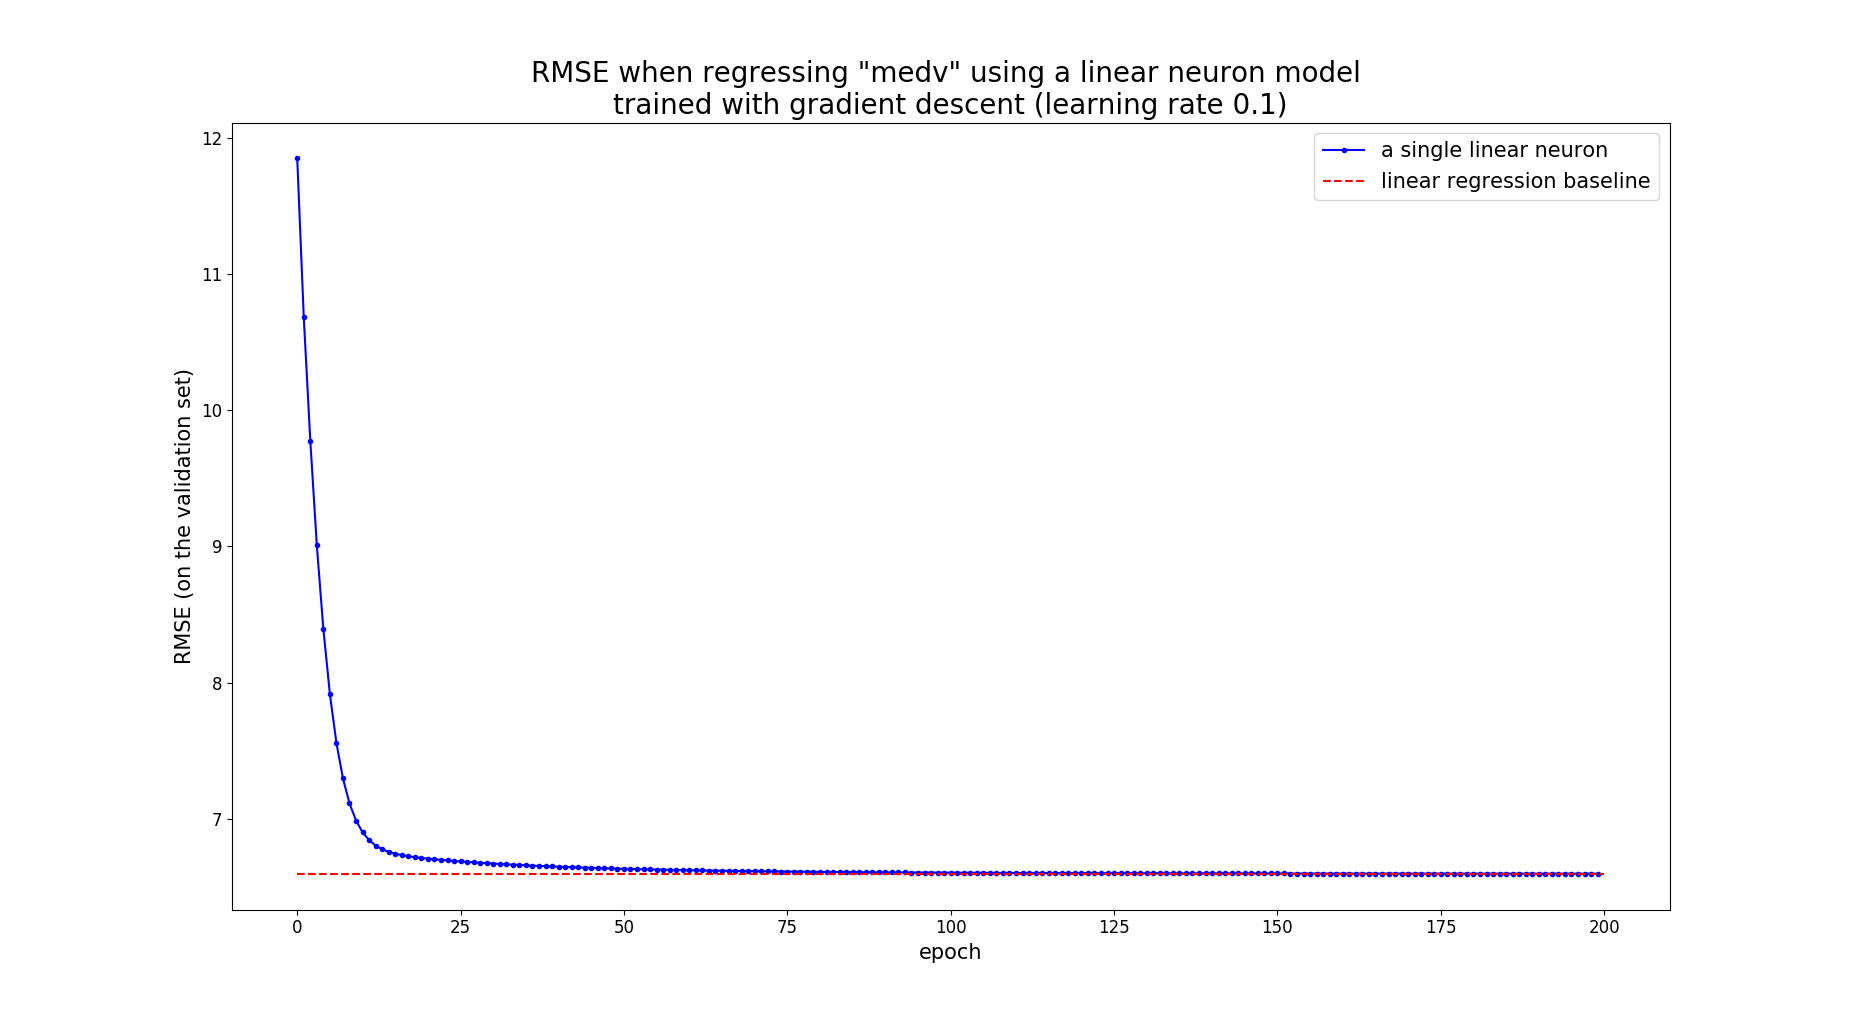
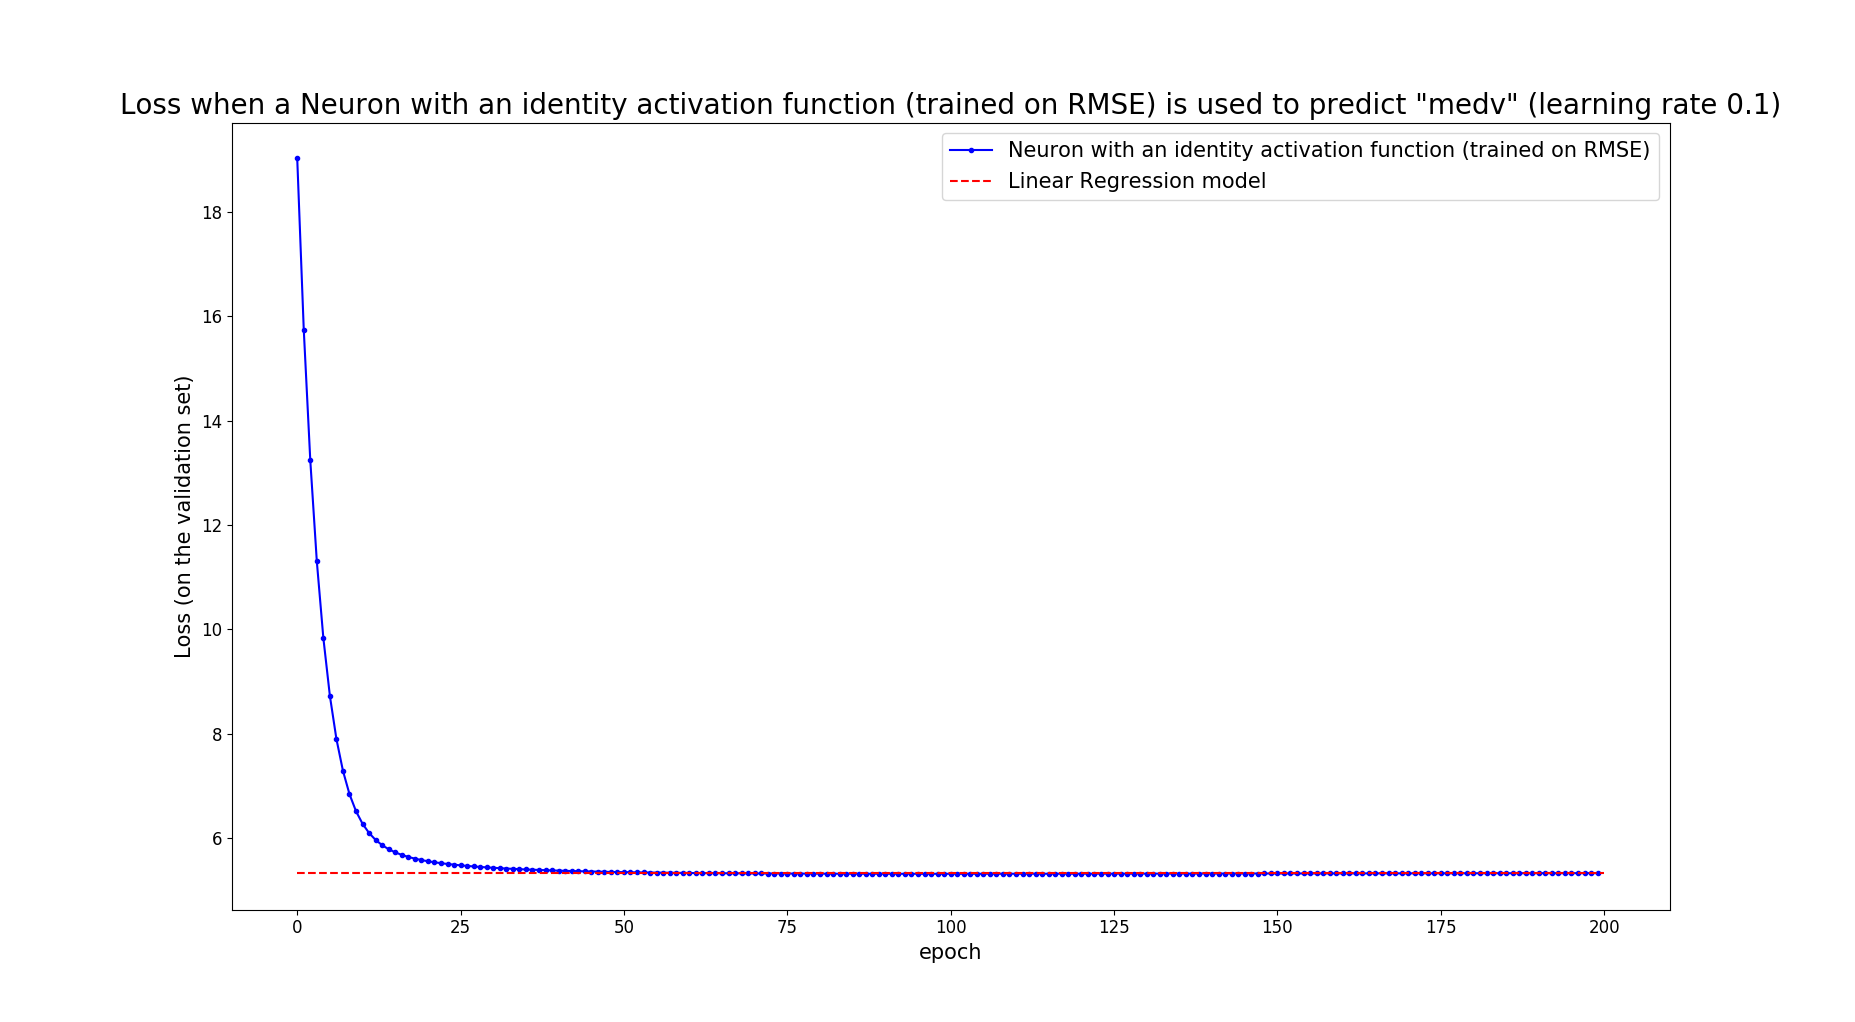
Update figures, fix some bugs

Changed region(s): [[0.0615, 0.0607, 0.9526, 0.182], [0.1844, 0.7886, 0.8604, 0.8796], [0.0922, 0.364, 0.1229, 0.637]]

diff --git a/single_neuron/neuron.py b/single_neuron/neuron.py
@@ -283,7 +283,7 @@ def main(csv_fn, target_name, neuron_class, validation_set_ratio, lrate, epochs,
     if lr_baseline:
         lr_y_hat, lr_params = models.predict_with_linear_regression(
                                                     X_train, y_train, X_valid)
-        lr_loss = M.rmse(neuron_y_hat, y_valid)
+        lr_loss = M.rmse(lr_y_hat, y_valid)
         lr_name = 'Linear Regression model'
         print('The RMSE loss with a {0} is: {1}'.format(lr_name, lr_loss))
         print('The parameteres of the {0} are: \n{1!s}\n'.format(

diff --git a/single_neuron/models.py b/single_neuron/models.py
@@ -220,7 +220,7 @@ class SigmoidNeuron(Neuron):
         N = y.shape[0]
         assert N > 0, ('At least one sample is required in order to compute the '
                       'log-likehood loss')
-        return M.cross_entropy(y_hat, y) / N 
+        return M.cross_entropy_with_one_hot_vector(y_hat, y) / N 
 
     def gradient_of_loss(self, Xn, y):
 
